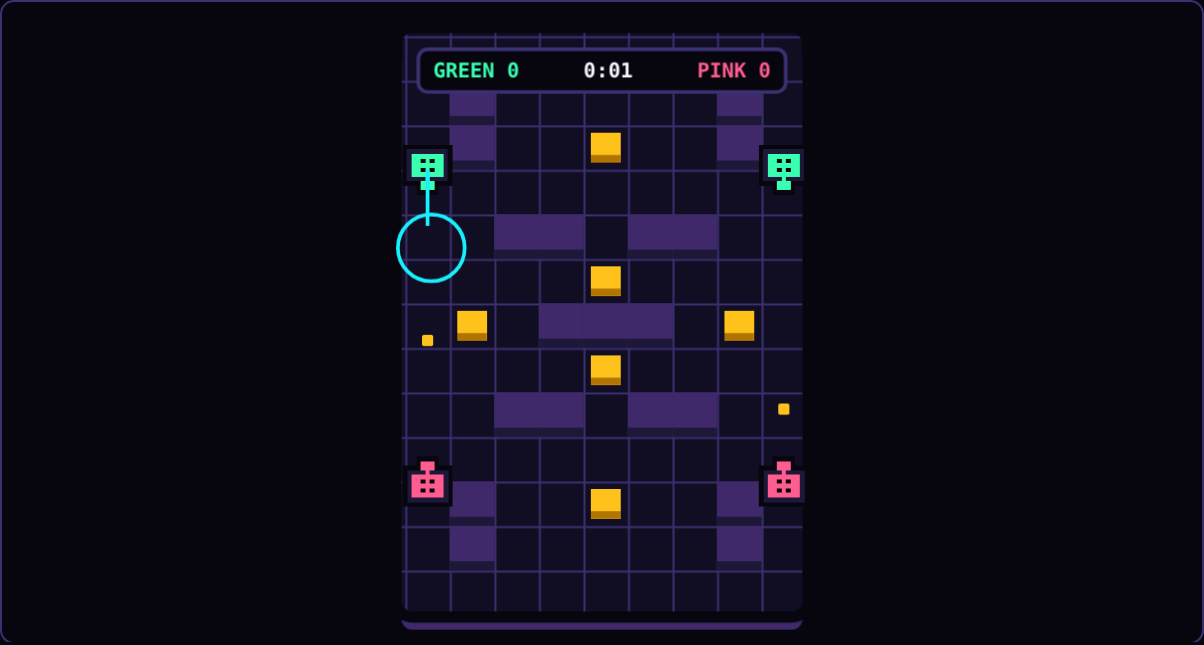
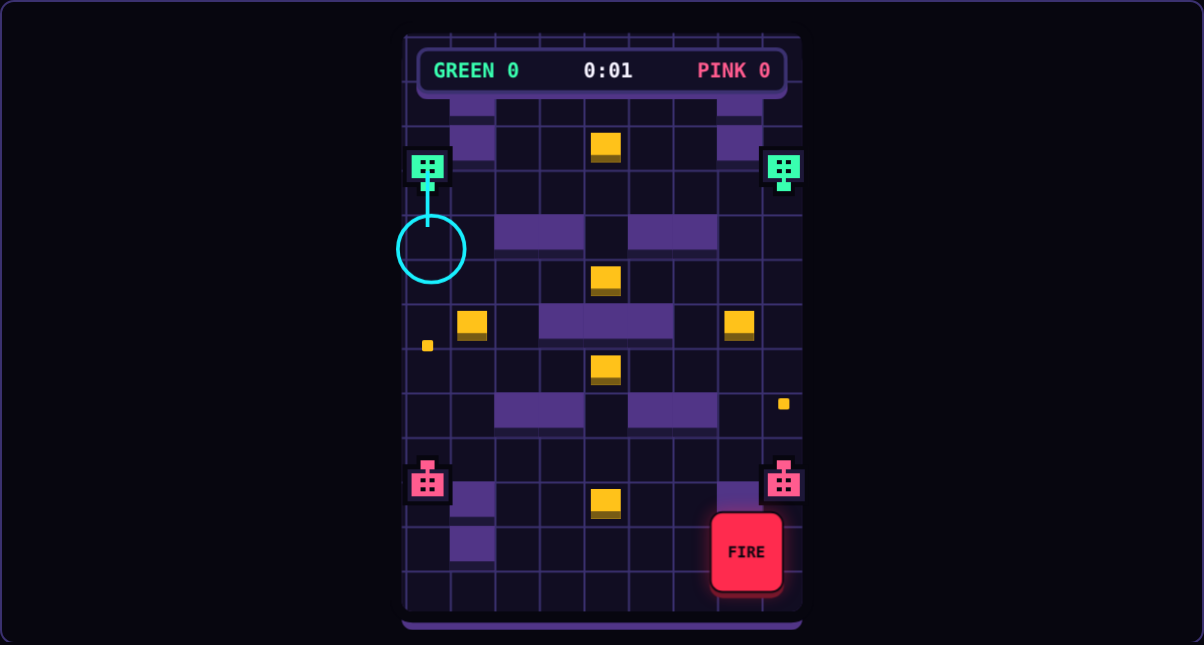
Layers story: wear the Board UI kit (tokens, arcade fire key, .bui root)
Every colour is a kit token from board-ui.css, the input layer shows the kit's arcade fire key,
and the tanks read their palette from the kit tokens at mount. Re-measured; screenshots redone.

Claude-Session: https://claude.ai/code/session_0153fwkiznjxyxnVJXRYF7zE

diff --git a/site/demos/layers/scene.ts b/site/demos/layers/scene.ts
@@ -34,7 +34,7 @@ const smooth = (a: number, b: number, t: number) => {
   return k * k * (3 - 2 * k);
 };
 
-const TANK = sprites(
+const tank = (pal: Record<string, string>[]) => sprites(
   {
     tank: {
       frames: [
@@ -49,10 +49,10 @@ const TANK = sprites(
         "ttttttttt",
       ],
       colors: { t: "tread", b: "team", h: "hatch", c: "team" },
-      outline: "#07060f",
+      outline: "rim",
     },
   },
-  { palettes: [{ tread: "#1d1738", team: "#39ffb0", hatch: "#07060f" }, { team: "#ff5c8f" }] },
+  { palettes: pal },
 );
 
 export function mount(stage: HTMLElement, opts: LayersOptions = {}): SlotScene & { engine: Engine } {
@@ -60,6 +60,10 @@ export function mount(stage: HTMLElement, opts: LayersOptions = {}): SlotScene &
   const engine = createEngine({ root: stage, fps: 30, settle: opts.settle ?? 0.5, seed: opts.seed ?? 7 });
   const rand = engine.random;
   const W = stage.clientWidth || 360, H = stage.clientHeight || 420; // one read, at mount
+  // The tanks wear the Board UI kit's tokens (sprites take hex: read them once, here).
+  const cs = getComputedStyle(stage), tok = (v: string, d: string) => cs.getPropertyValue(v).trim() || d;
+  const rim = tok("--rim", "#07060f");
+  const TANK = tank([{ tread: tok("--raised", "#1d1738"), team: tok("--team-a", "#39ffb0"), hatch: rim, rim }, { team: tok("--team-b", "#ff5c8f") }]);
 
   // ---------- the board (fizlet/grid) ----------
   const bd = makeBoard(COLS, ROWS, { cell: CELL });
@@ -116,6 +120,8 @@ export function mount(stage: HTMLElement, opts: LayersOptions = {}): SlotScene &
   const fx = effects({ cap: 160, scorch: 12, words: ["HIT", "BLAM"] });
   // Input: a thumb ring with an aim line (the intent the lead tank follows).
   const ring = el(inL, "lz-r"), aim = el(inL, "lz-a");
+  // The kit's own arcade fire key (Board UI), as the player's on-screen control.
+  el(inL, "bui-key bui-arcade bui-fire lz-fire").textContent = "FIRE";
   // HUD.
   const hud = el(hudL, "lz-hud");
   hud.innerHTML = "<b>GREEN 0</b><span>0:00</span><i>PINK 0</i>";
@@ -234,14 +240,14 @@ export function mount(stage: HTMLElement, opts: LayersOptions = {}): SlotScene &
         l.style.transform = `translateZ(${(i - (N - 1) / 2) * GAP * open}px)`;
         tags[i]!.style.transform = `rotateZ(${-TURN * open}deg) rotateX(${-TILT * open}deg)`;
         tags[i]!.style.opacity = `${smooth(0.6, 1, open)}`;
-        if (i) l.style.borderColor = open > 0.02 ? (i === FAULT ? "" : "#3b3170") : "transparent";
-        if (i) l.style.backgroundColor = open > 0.02 ? "rgba(17,13,34,.42)" : "";
+        if (i) l.style.borderColor = open > 0.02 ? (i === FAULT ? "" : "var(--line)") : "transparent";
+        if (i) l.style.backgroundColor = open > 0.02 ? "color-mix(in srgb,var(--surface) 42%,transparent)" : "";
       }
       // Fault, scan, patch, green.
       const bad = t >= FAULT_AT && t < SCAN_END, ok = t >= SCAN_END && t < OK_END;
       const p = smooth(SCAN_AT, SCAN_END, t);
-      colL.style.borderColor = bad ? "#ff2b4e" : ok ? "#39ffb0" : open > 0.02 ? "#3b3170" : "transparent";
-      colL.style.backgroundColor = bad ? "rgba(255,43,78,.28)" : ok ? `rgba(57,255,176,${0.5 * (1 - smooth(SCAN_END, OK_END, t))})` : colL.style.backgroundColor;
+      colL.style.borderColor = bad ? "var(--k-fire)" : ok ? "var(--k-go)" : open > 0.02 ? "var(--line)" : "transparent";
+      colL.style.backgroundColor = bad ? "color-mix(in srgb,var(--k-fire) 28%,transparent)" : ok ? `color-mix(in srgb,var(--k-go) ${Math.round(50 * (1 - smooth(SCAN_END, OK_END, t)))}%,transparent)` : colL.style.backgroundColor;
       colL.style.opacity = `${open > 0.02 || bad ? 1 : 0}`;
       const h = `${t >= SCAN_AT && t < OK_END ? p * BH : t >= OK_END || t < FAULT_AT ? BH : 0}px`;
       if (fixed.style.height !== h) fixed.style.height = h;
@@ -251,8 +257,8 @@ export function mount(stage: HTMLElement, opts: LayersOptions = {}): SlotScene &
       const word = bad ? (t < SCAN_AT ? "FAULT" : "SCANNING") : ok ? "PATCHED" : "";
       if (tag.dataset.state !== word) {
         tag.dataset.state = word;
-        tag.style.borderColor = bad ? "#ff2b4e" : ok ? "#39ffb0" : "";
-        tag.innerHTML = word ? `${LAYERS[FAULT]!.name} <u style="color:${bad ? "#ff7389" : "#39ffb0"}">· ${word}</u>` : `${LAYERS[FAULT]!.name} <u>· ${LAYERS[FAULT]!.bytes} ${LAYERS[FAULT]!.unit}</u>`;
+        tag.style.borderColor = bad ? "var(--k-fire)" : ok ? "var(--k-go)" : "";
+        tag.innerHTML = word ? `${LAYERS[FAULT]!.name} <u style="color:var(${bad ? "--k-aim" : "--k-go"})">· ${word}</u>` : `${LAYERS[FAULT]!.name} <u>· ${LAYERS[FAULT]!.bytes.toLocaleString("en-GB")} ${LAYERS[FAULT]!.unit}</u>`;
       }
       for (let i = 1; i < N; i++) if (i !== FAULT) layers[i]!.style.opacity = bad || ok ? "0.4" : "";
       // Game-mode helpers (paths, hitboxes, rules) show only when the stack is open.

diff --git a/site/demos/layers/css.ts b/site/demos/layers/css.ts
@@ -1,25 +1,26 @@
 /** The scene's styles, inlined on the host page with the poster (so the live chunk carries no CSS). */
 import { CELL, BW, BH } from "./data";
 
-export const SCENE_CSS = `.lz{position:absolute;inset:0;perspective:2200px;font:700 11px/1 ui-monospace,SFMono-Regular,Menlo,Consolas,monospace;color:#f6f3ff;user-select:none}
+export const SCENE_CSS = `.lz{position:absolute;inset:0;perspective:2200px;font:700 11px/1 ui-monospace,SFMono-Regular,Menlo,Consolas,monospace;color:var(--ink);user-select:none}
 .lz-s{position:absolute;left:50%;top:50%;width:${BW}px;height:${BH}px;margin:-${BH / 2}px 0 0 -${BW / 2}px;transform-style:preserve-3d;will-change:transform}
 .lz-l{position:absolute;inset:0;transform-style:preserve-3d;border:2px solid transparent;border-radius:6px}
 .lz-l>*{position:absolute}
-.lz-g{background-color:#110d22;background-image:linear-gradient(#3b3170 1px,transparent 1px),linear-gradient(90deg,#3b3170 1px,transparent 1px);background-size:${CELL}px ${CELL}px;outline:6px solid #07060f;box-shadow:0 10px 0 #3f296a}
-.lz-w{width:${CELL}px;height:${CELL}px;background:#3f296a;box-shadow:inset 0 -5px 0 #1d1738}
-.lz-c{width:${CELL - 8}px;height:${CELL - 8}px;margin:4px;background:#ffc21a;box-shadow:inset 0 -4px 0 #b07400}
+.lz-g{background-color:var(--surface);background-image:linear-gradient(var(--line) 1px,transparent 1px),linear-gradient(90deg,var(--line) 1px,transparent 1px);background-size:${CELL}px ${CELL}px;outline:6px solid var(--rim);box-shadow:0 10px 0 var(--k-cmd-base)}
+.lz-w{width:${CELL}px;height:${CELL}px;background:var(--k-cmd-base);box-shadow:inset 0 -5px 0 var(--raised)}
+.lz-c{width:${CELL - 8}px;height:${CELL - 8}px;margin:4px;background:var(--hurt);box-shadow:inset 0 -4px 0 color-mix(in srgb,var(--hurt) 45%,var(--rim))}
 .lz-t{width:27px;height:27px;left:0;top:0;image-rendering:pixelated}
-.lz-b{width:6px;height:6px;left:-3px;top:-3px;background:#ffc21a;border-radius:1px}
-.lz-d{width:4px;height:4px;left:-2px;top:-2px;background:#19f0ff}
-.lz-h{border:1px solid #19f0ff;border-radius:50%;width:22px;height:22px;left:-11px;top:-11px}
-.lz-k{width:${CELL}px;height:${CELL}px;border:1px dashed #19f0ff}
+.lz-b{width:6px;height:6px;left:-3px;top:-3px;background:var(--hurt);border-radius:1px}
+.lz-d{width:4px;height:4px;left:-2px;top:-2px;background:var(--k-sys)}
+.lz-h{border:1px solid var(--k-sys);border-radius:50%;width:22px;height:22px;left:-11px;top:-11px}
+.lz-k{width:${CELL}px;height:${CELL}px;border:1px dashed var(--k-sys)}
 .lz-x{left:0;top:0;width:100%;height:0;overflow:hidden}
-.lz-scan{left:-6px;right:-6px;height:4px;top:0;background:#19f0ff;box-shadow:0 2px 0 #07060f}
-.lz-p{width:${CELL}px;height:${CELL}px;border:2px solid #ffc21a}
-.lz-r{width:34px;height:34px;left:-17px;top:-17px;border:2px solid #19f0ff;border-radius:50%}
-.lz-a{height:2px;left:0;top:-1px;background:#19f0ff;transform-origin:0 50%}
-.lz-hud{left:6px;right:6px;top:6px;display:flex;justify-content:space-between;padding:5px 7px;background:#07060f;border:2px solid #3b3170;border-radius:6px}
-.lz-hud b{color:#39ffb0}.lz-hud i{font-style:normal;color:#ff5c8f}
+.lz-scan{left:-6px;right:-6px;height:4px;top:0;background:var(--k-sys);box-shadow:0 2px 0 var(--rim)}
+.lz-p{width:${CELL}px;height:${CELL}px;border:2px solid var(--hurt)}
+.lz-r{width:34px;height:34px;left:-17px;top:-17px;border:2px solid var(--k-sys);border-radius:50%}
+.lz-a{height:2px;left:0;top:-1px;background:var(--k-sys);transform-origin:0 50%}
+.lz-fire{--u:.7px;right:8px;bottom:8px;pointer-events:none}
+.lz-hud{left:6px;right:6px;top:6px;display:flex;justify-content:space-between;padding:5px 7px;background:var(--card);border:2px solid var(--line);border-radius:6px;box-shadow:0 3px 0 var(--k-cmd-base)}
+.lz-hud b{color:var(--team-a)}.lz-hud i{font-style:normal;color:var(--team-b)}
 .lz-cv{inset:0;width:100%;height:100%}
-.lz-tag{left:100%;top:100%;white-space:nowrap;transform-origin:0 0;padding:4px 7px;background:#07060f;border:2px solid #3b3170;border-radius:5px;opacity:0;margin:-2px 0 0 10px}
-.lz-tag u{text-decoration:none;color:#aea4d6}`;
+.lz-tag{left:100%;top:100%;white-space:nowrap;transform-origin:0 0;padding:4px 7px;background:var(--card);border:2px solid var(--line);border-radius:5px;opacity:0;margin:-2px 0 0 10px}
+.lz-tag u{text-decoration:none;color:var(--muted)}`;

diff --git a/site/demos/layers/poster.ts b/site/demos/layers/poster.ts
@@ -15,25 +15,25 @@ for (let v = 250; v <= 1500; v += 50)
 const N = LAYERS.length;
 
 export const POSTER_CSS = SCENE_CSS + `
-.lyr{position:relative;margin:0;width:100%;aspect-ratio:4/5;max-height:640px;container-type:size;background:#07060f;border:2px solid #3b3170;border-radius:14px;overflow:hidden;contain:layout paint}
-.lyr__p{position:absolute;inset:0;perspective:2200px;font:700 11px/1 ui-monospace,SFMono-Regular,Menlo,Consolas,monospace;color:#f6f3ff}
+.lyr{position:relative;margin:0;width:100%;aspect-ratio:4/5;max-height:640px;container-type:size;background:var(--rim);border:2px solid var(--line);border-radius:14px;overflow:hidden;contain:layout paint}
+.lyr__p{position:absolute;inset:0;perspective:2200px;font:700 11px/1 ui-monospace,SFMono-Regular,Menlo,Consolas,monospace;color:var(--ink)}
 .lyr__s{position:absolute;left:50%;top:50%;width:${BW}px;height:${BH}px;margin:-${BH / 2}px 0 0 -${BW / 2}px;transform-style:preserve-3d;--wp:.6;--hp:.6;--we:.2;--he:.2;--se:min(var(--we),var(--he));transform:scale(min(var(--wp),var(--hp)))}
 ${steps}
 .lyr__l{position:absolute;inset:0;transform-style:preserve-3d;border-radius:6px}
-.lyr__l>i{position:absolute;width:${CELL}px;height:${CELL}px;background:#3f296a}
-.lyr__l>i.c{background:#ffc21a;width:${CELL - 8}px;height:${CELL - 8}px;margin:4px}
-.lyr__g{background-color:#110d22;background-image:linear-gradient(#3b3170 1px,transparent 1px),linear-gradient(90deg,#3b3170 1px,transparent 1px);background-size:${CELL}px ${CELL}px;outline:6px solid #07060f}
-.lyr__t{position:absolute;left:100%;top:100%;white-space:nowrap;padding:4px 7px;background:#07060f;border:2px solid #3b3170;border-radius:5px;margin:-2px 0 0 10px;transform-origin:0 0;display:none}
-.lyr__t u{text-decoration:none;color:#aea4d6}
+.lyr__l>i{position:absolute;width:${CELL}px;height:${CELL}px;background:var(--k-cmd-base)}
+.lyr__l>i.c{background:var(--hurt);width:${CELL - 8}px;height:${CELL - 8}px;margin:4px}
+.lyr__g{background-color:var(--surface);background-image:linear-gradient(var(--line) 1px,transparent 1px),linear-gradient(90deg,var(--line) 1px,transparent 1px);background-size:${CELL}px ${CELL}px;outline:6px solid var(--rim)}
+.lyr__t{position:absolute;left:100%;top:100%;white-space:nowrap;padding:4px 7px;background:var(--card);border:2px solid var(--line);border-radius:5px;margin:-2px 0 0 10px;transform-origin:0 0;display:none}
+.lyr__t u{text-decoration:none;color:var(--muted)}
 @media (min-width:720px){.lyr{aspect-ratio:16/10}}
 @media (prefers-reduced-motion:reduce){
 .lyr__s{transform:translate(calc(${-LABEL_W / 2}px - ${B.cx.toFixed(2)}px * var(--se)),calc(${(-B.cy).toFixed(2)}px * var(--se))) scale(var(--se)) rotateX(${TILT}deg) rotateZ(${TURN}deg)}
 ${LAYERS.map((_, i) => `.lyr__l:nth-child(${i + 1}){transform:translateZ(${(i - (N - 1) / 2) * GAP}px)}`).join("")}
-.lyr__l+.lyr__l{border:2px solid #3b3170;background:rgba(17,13,34,.42)}.lyr__l.lyr__f{border-color:#39ffb0}
+.lyr__l+.lyr__l{border:2px solid var(--line);background:color-mix(in srgb,var(--surface) 42%,transparent)}.lyr__l.lyr__f{border-color:var(--k-go)}
 .lyr__t{display:block;font-size:calc(11px / var(--se));border-width:calc(2px / var(--se));transform:rotateZ(${-TURN}deg) rotateX(${-TILT}deg)}
 }`;
 
-/** The slot figure: `<figure class="ae-slot lyr" data-slot-target="…">` with its poster inside. */
+/** The slot figure: `<figure class="ae-slot lyr bui" data-slot-target="…">` with its poster inside. */
 export function poster(target = "index#layers") {
   let cells = "";
   for (let r = 0; r < ROWS; r++)
@@ -43,6 +43,6 @@ export function poster(target = "index#layers") {
     }
   const layers = LAYERS.map((l, i) =>
     `<div class="lyr__l${i ? "" : " lyr__g"}${i === FAULT ? " lyr__f" : ""}">${i ? "" : cells}<span class="lyr__t">${l.name} <u>· ${l.bytes.toLocaleString("en-GB")} ${l.unit}</u></span></div>`).join("");
-  return `<figure class="ae-slot lyr" data-slot-target="${target}" role="img" aria-label="${ARIA}">` +
+  return `<figure class="ae-slot lyr bui" data-slot-target="${target}" role="img" aria-label="${ARIA}">` +
     `<div class="ae-slot__placeholder lyr__p" aria-hidden="true"><div class="lyr__s">${layers}</div></div></figure>`;
 }

diff --git a/examples/layers/README.md b/examples/layers/README.md
@@ -3,7 +3,9 @@
 A landing-page story graphic. A Battlefield Blitz-style board plays, turns and fans out into its
 eight layers (real DOM layers in CSS 3D), each labelled with the bytes Blitz's own code spends on
 it. The collision layer faults red, a scan patches it, it flashes green, and the stack folds back
-into the game. By [Chris Cooley](https://coded.design/).
+into the game. It wears the Board UI kit (`src/ui`, from DOM Battlefield): every colour is a kit
+token, the on-screen control is the kit's arcade fire key, and the figure is a `.bui` root, so the
+host page loads `board-ui.css`. By [Chris Cooley](https://coded.design/).
 
 ![The story, one cycle](screens/layers.gif)
 
@@ -40,11 +42,11 @@ Optional data attributes on the figure: `data-loops` (cycles before it settles, 
 
 ## Measured
 
-See `site/demos/layers/measured.json`. On Fizlet 0.5.1, Chromium 153: live chunk 12,407 B gzip
-(slot 1,957 B up front, scene 10,450 B lazy), poster 2,500 B gzip inline; at 4× CPU throttle,
-script per frame 0.9 ms median, 4.9 ms p95; layout shift 0; 0 frames once settled; 0 scene bytes
+See `site/demos/layers/measured.json`. On Fizlet 0.5.1, Chromium 153: live chunk 12,559 B gzip
+(slot 1,959 B up front, scene 10,600 B lazy), poster 2,560 B gzip inline; at 4× CPU throttle,
+script per frame 0.9 ms median, 5.2 ms p95; layout shift 0; 0 frames once settled; 0 scene bytes
 before the slot nears the viewport.
 
 Against the hero budgets in fizlet-engine `docs/LAYERS.md`: poster ≤ 6 KB ✔, CLS 0 ✔, 0 frames
-settled ✔, **live chunk ≤ 10 KB ✘ (12.1 KB)**: kernel + slot + grid + sprite + fx take most of it.
-The slot's 1,957 B also load before the slot is near (the budget says 0 B).
+settled ✔, **live chunk ≤ 10 KB ✘ (12.3 KB)**: kernel + slot + grid + sprite + fx take most of it.
+The slot's 1,959 B also load before the slot is near (the budget says 0 B).

diff --git a/CHANGELOG.md b/CHANGELOG.md
@@ -7,10 +7,11 @@
   characters, movement, collision, rules, effects, input, HUD), each labelled with Blitz's measured
   bytes for that layer (layer manifest, Blitz c8c8ca4). The collision layer faults red, a scan
   patches it, it flashes green, and the stack folds back into the game. Built on the kernel (30 fps
-  cap, settle), `grid`, `sprite` and `fx`; mounted through `fizlet/slot`. After 3 cycles it rests on
+  cap, settle), `grid`, `sprite` and `fx`; mounted through `fizlet/slot`. It wears the Board UI kit:
+  kit tokens for every colour, the kit's arcade fire key, a `.bui` root (hosts load `board-ui.css`). After 3 cycles it rests on
   the game frame and settles; reduced motion keeps a CSS-only still exploded view with labels.
-  Measured (Chromium 153, 4× CPU throttle): script per frame 0.9 ms median, 4.9 ms p95; live chunk
-  12,407 B gzip (over the 10 KB hero budget), poster 2,500 B; CLS 0; 0 frames once settled. New
+  Measured (Chromium 153, 4× CPU throttle): script per frame 0.9 ms median, 5.2 ms p95; live chunk
+  12,559 B gzip (over the 10 KB hero budget), poster 2,560 B; CLS 0; 0 frames once settled. New
   `npm run test:layers` (in CI): mounts, cycles once, settles, Recall is exact, reduced motion.
 
 ## 0.5.1
